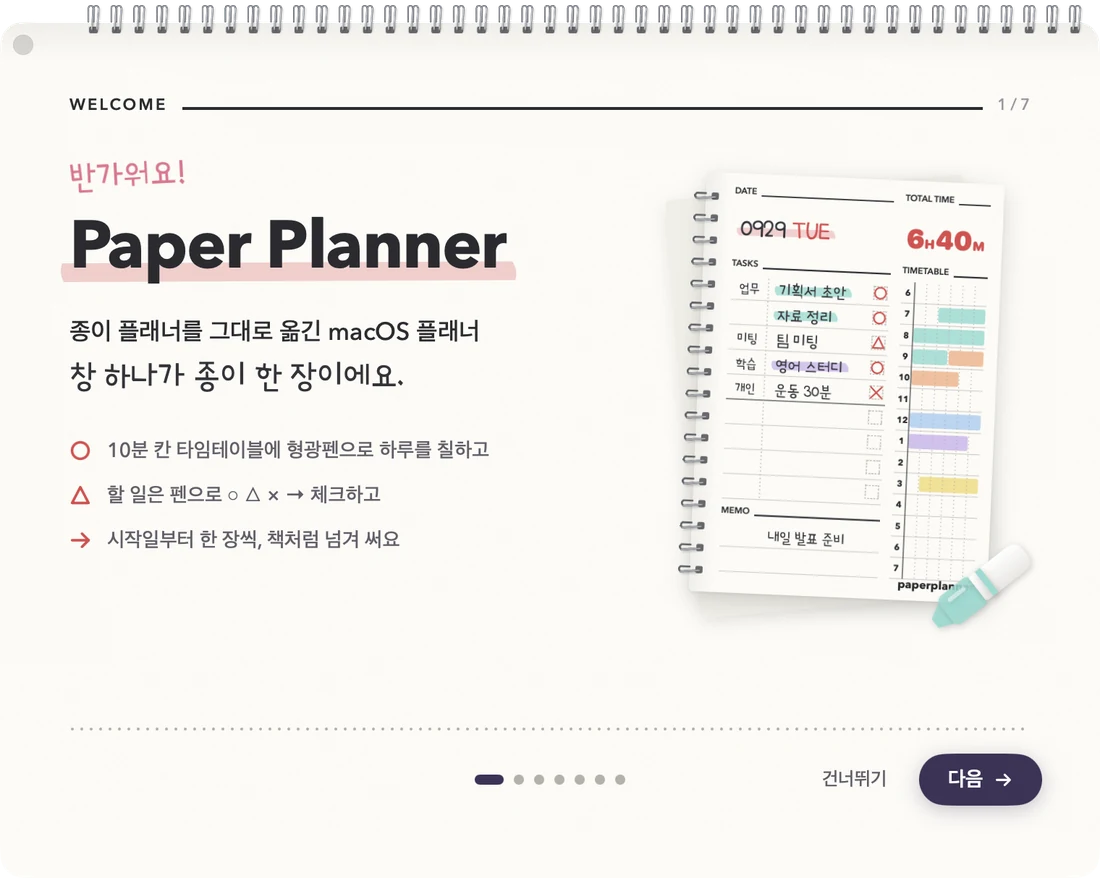
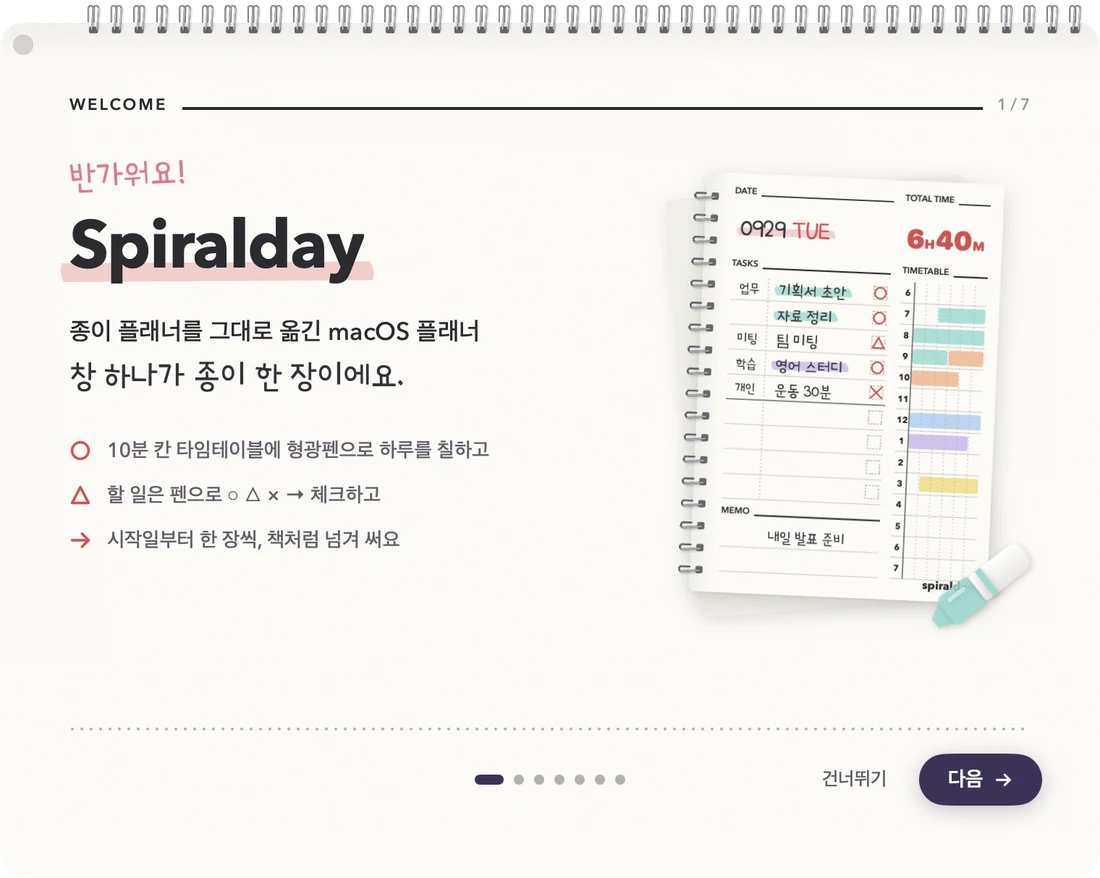
Sparkle auto-update (appcast on spiralday.com, EdDSA-signed), release script and 1.0.0 notes; wordmark links to spiralday.com; README/site images and copy updated for Spiralday; footer label colons

Changed region(s): [[0.0618, 0.246, 0.4636, 0.3383], [0.8036, 0.6458, 0.8655, 0.6765]]

diff --git a/site/index.html b/site/index.html
@@ -339,7 +339,7 @@
       <div class="card"><span class="chip" style="--c:#CDB6EF"></span><h3>키보드로 다</h3><p>← → 넘기기, T 오늘, W · D · H 보기, 1–7 형광펜, E 지우개.</p></div>
       <div class="card"><span class="chip" style="--c:#F3DB78"></span><h3>9가지 컬러 컨셉</h3><p>날마다 다른 강조색. 기본 컬러는 설정에서.</p></div>
       <div class="card"><span class="chip" style="--c:#A9CFF3"></span><h3>손글씨 폰트</h3><p>또박또박 볼펜 느낌의 Poor Story 로 적혀요.</p></div>
-      <div class="card"><span class="chip" style="--c:#F6AEC5"></span><h3>백업 한 번에</h3><p>플래너별 JSON 파일. 설정에서 내보내고 되살려요.</p></div>
+      <div class="card"><span class="chip" style="--c:#F6AEC5"></span><h3>자동 업데이트</h3><p>새 버전이 나오면 앱이 알려 주고, 누르면 알아서 바꿔 끼워요.</p></div>
     </div>
   </section>
 
@@ -396,11 +396,11 @@
         </a>
         <p class="made">Spiralday 는 린에자일헝그리가 만들고 운영해요.</p>
         <ul class="biz">
-          <li>상호 주식회사 린에자일헝그리 (LeanAgileHungry.Inc)</li>
-          <li>대표자 위관우</li>
-          <li>사업자등록번호 791-88-03659</li>
-          <li>주소 전남광주통합특별시 동구 동계천로 150, 205-2호 (동명동, I-Plex 광주)</li>
-          <li>이메일 <a href="mailto:contact@leanagilehungry.com">contact@leanagilehungry.com</a></li>
+          <li>상호: 주식회사 린에자일헝그리 (LeanAgileHungry.Inc)</li>
+          <li>대표자: 위관우</li>
+          <li>사업자등록번호: 791-88-03659</li>
+          <li>주소: 전남광주통합특별시 동구 동계천로 150, 205-2호 (동명동, I-Plex 광주)</li>
+          <li>이메일: <a href="mailto:contact@leanagilehungry.com">contact@leanagilehungry.com</a></li>
         </ul>
       </div>
       <div class="links">
@@ -411,7 +411,7 @@
         <a href="https://leanagilehungry.com" target="_blank" rel="noopener">회사 소개</a>
       </div>
     </div>
-    <p class="legal">© 2026 LeanAgileHungry.Inc · Spiralday 는 <a href="https://github.com/Grwaywee/spiralday/blob/main/LICENSE">MIT 라이선스</a> 오픈소스예요 · 손글씨 폰트 Poor Story © YoonDesign Inc. (SIL OFL 1.1)</p>
+    <p class="legal">© 2026 LeanAgileHungry.Inc · Spiralday 는 <a href="https://github.com/Grwaywee/spiralday/blob/main/LICENSE">MIT 라이선스</a> 오픈소스예요 · 손글씨 폰트: Poor Story © YoonDesign Inc. (SIL OFL 1.1)</p>
   </div>
 </footer>
 </body>

diff --git a/Sources/Spiralday/App.swift b/Sources/Spiralday/App.swift
@@ -1,5 +1,6 @@
 import SwiftUI
 import AppKit
+import Sparkle
 
 @main
 struct SpiraldayApp: App {
@@ -9,6 +10,9 @@ struct SpiraldayApp: App {
         // 창은 AppDelegate 가 직접 만든다 (창 = 종이, 비율 고정, 옆 팔레트)
         Settings { EmptyView() }
             .commands {
+                CommandGroup(after: .appInfo) {
+                    Button("업데이트 확인…") { delegate.checkForUpdates() }
+                }
                 CommandGroup(replacing: .appSettings) {
                     Button("설정…") { SettingsWindowController.shared.show(store: delegate.store, state: delegate.state) }
                         .keyboardShortcut(",", modifiers: .command)
@@ -54,6 +58,12 @@ final class AppDelegate: NSObject, NSApplicationDelegate {
     let store: PlannerStore
     let state: AppState
     private var windowController: MainWindowController?
+    /// 원격 업데이트 (Sparkle). 데모·스냅샷 같은 개발 실행에서는 켜지 않는다.
+    private var updater: SPUStandardUpdaterController?
+
+    var canCheckForUpdates: Bool { updater != nil }
+
+    func checkForUpdates() { updater?.checkForUpdates(nil) }
 
     private static let args = CommandLine.arguments
 
@@ -129,6 +139,10 @@ final class AppDelegate: NSObject, NSApplicationDelegate {
             return
         }
         let demo = Self.args.contains("--demo")
+        // .app 으로 실행될 때만 (Info.plist 에 SUFeedURL 이 있을 때) 업데이트를 확인한다
+        if !demo, Bundle.main.object(forInfoDictionaryKey: "SUFeedURL") != nil {
+            updater = SPUStandardUpdaterController(startingUpdater: true, updaterDelegate: nil, userDriverDelegate: nil)
+        }
         if !demo && (store.books.isEmpty || OnboardingController.needsOnboarding) || Self.args.contains("--onboarding") {
             OnboardingController.shared.show(store: store, state: state) { [weak self] in self?.openPlanner() }
         } else {

diff --git a/Sources/Spiralday/DailyPage.swift b/Sources/Spiralday/DailyPage.swift
@@ -38,6 +38,12 @@ struct DailyPage: View {
 
             SlotPainter(date: date, cellW: F.cell * u, rowH: F.hourPitch * u)
                 .offset(x: F.slotsLeft * u, y: F.gridTop * u)
+
+            // 오른쪽 아래 워드마크: 누르면 spiralday.com
+            if !isSnapshot {
+                WordmarkLink()
+                    .place(CGRect(x: F.wordmarkRight - 190, y: F.wordmarkBaseline - 36, width: 196, height: 48), u)
+            }
         }
         .frame(width: PageKind.daily.design.width * u, height: PageKind.daily.design.height * u, alignment: .topLeading)
     }
@@ -250,6 +256,22 @@ struct DailyPage: View {
                 .onTapGesture { state.editingKey = "mt|\(dk)|\(n)" }
                 .place(CGRect(x: F.left + 4, y: F.memoTop + CGFloat(r) * p, width: F.categoryX - F.left - 8, height: p), u)
         }
+    }
+}
+
+/// 인쇄된 워드마크 위의 투명한 링크
+private struct WordmarkLink: View {
+    var body: some View {
+        Color.clear
+            .contentShape(Rectangle())
+            .onTapGesture { Links.open(Links.website) }
+            .onContinuousHover { phase in
+                switch phase {
+                case .active: NSCursor.pointingHand.set()
+                case .ended: NSCursor.arrow.set()
+                }
+            }
+            .help("spiralday.com 열기")
     }
 }
 

diff --git a/Package.swift b/Package.swift
@@ -4,7 +4,19 @@ import PackageDescription
 let package = Package(
     name: "Spiralday",
     platforms: [.macOS(.v14)],
+    dependencies: [
+        // 원격 업데이트 (appcast: https://spiralday.com/appcast.xml)
+        .package(url: "https://github.com/sparkle-project/Sparkle", from: "2.6.0"),
+    ],
     targets: [
-        .executableTarget(name: "Spiralday", path: "Sources/Spiralday")
+        .executableTarget(
+            name: "Spiralday",
+            dependencies: [.product(name: "Sparkle", package: "Sparkle")],
+            path: "Sources/Spiralday",
+            linkerSettings: [
+                // .app 안의 Contents/Frameworks/Sparkle.framework 를 찾는다
+                .unsafeFlags(["-Xlinker", "-rpath", "-Xlinker", "@executable_path/../Frameworks"]),
+            ]
+        ),
     ]
 )

diff --git a/Docs/release-notes/1.0.0.md b/Docs/release-notes/1.0.0.md
@@ -1,0 +1,14 @@
+Spiralday 첫 버전이에요. 창 하나가 곧 종이 한 장인 macOS 플래너.
+
+- 일간: 10분 단위 종이 플래너 형식 — DATE · D-DAY · COMMENT · TOTAL TIME · TASKS · MEMO · TIMETABLE
+- 주간: MY GOAL, 주간 회고, 월–일 7칸 (할 일 · 타임테이블 · 하루 합계)
+- 홈: 이번 주·이번 달 시간, 연속 기록, 완료율, 최근 12주, 형광펜별 시간, 최근 35일 달력
+- 진짜 종이처럼 넘어가는 페이지 (모서리 드래그, 트랙패드 스와이프, ← →)
+- 형광펜 타임테이블, 손글씨 메모, 🍴 밥시간 화살표
+- ○ △ × → 체크, 끝낸 일에만 형광펜, 같은 형광펜끼리 모으기
+- 날마다 고르는 컬러 컨셉, D-day 두 개
+- 플래너 여러 권 (시작일 · 종료일), 첫 실행 튜토리얼
+- PDF 로 뽑기: 일간 A4 반쪽 두 장씩 (자르면 실물 크기) · A4 세로, 주간 · 홈 A4 가로
+- 자동 업데이트
+
+설치: zip 을 풀어 Spiralday.app 을 응용 프로그램 폴더로 옮기고, 처음 한 번은 오른쪽 클릭 → 열기.
